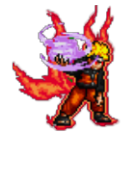
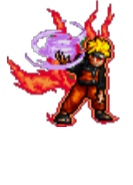
Mauricio
Renomeei algumas imagens e adicionei animações adicionais.

Changed region(s): [[0.0301, 0.0, 0.9023, 0.7297]]

diff --git a/Projeto_Final.py b/Projeto_Final.py
@@ -66,12 +66,13 @@ def acao(grupo_amigo, grupo_inimigo):
                     personagem.altera_boneco(['1.png','3.png'])
                     dano=5
                 elif personagem.tipo=='Naruto':
-                    personagem.altera_boneco(['naruto_1.png','naruto_3.png','naruto_5.png',\
-                                                'naruto_7.png','naruto_9.png','naruto_11.png','naruto_13.png',\
-                                                'naruto_15.png'])
+                    personagem.altera_boneco(['naruto_1.png','naruto_2.png','naruto_3.png',\
+                                                'naruto_4.png','naruto_5.png','naruto_6.png','naruto_7.png',\
+                                                'naruto_8.png'])
                     dano=30
                 elif personagem.tipo=='Sasuke':
-                    personagem.ativa_boneco('sasuke_parado.png')
+                    personagem.altera_boneco(['chidori_1.png','chidori_2.png','chidori_3.png','chidori_4.png','chidori_5.png',\
+                                            'chidori_6.png','chidori_7.png','chidori_8.png'])
                     dano=10
                 personagem.tira_vida(grupo_inimigo,personagem,dano)
             if personagem.vida<=0:
@@ -79,11 +80,13 @@ def acao(grupo_amigo, grupo_inimigo):
         else:
             if personagem!=torre and personagem!=torre2:
                 if personagem.tipo=='Goku':
+                    personagem.altera_boneco(['1.png','2.png'])
                     personagem.move(7)
                 elif personagem.tipo=='Naruto':
                     personagem.altera_boneco(['naruto1.png','naruto2.png','naruto3.png'])
                     personagem.move(3)
                 elif personagem.tipo=='Sasuke':
+                    personagem.altera_boneco(['sasuke1.png','sasuke2.png','sasuke3.png'])
                     personagem.move(-4)
 # classe do botão retirada de: http://www.dreamincode.net/forums/topic/401541-buttons-and-sliders-in-pygame/
 cor_fundo = (255, 235, 215)
